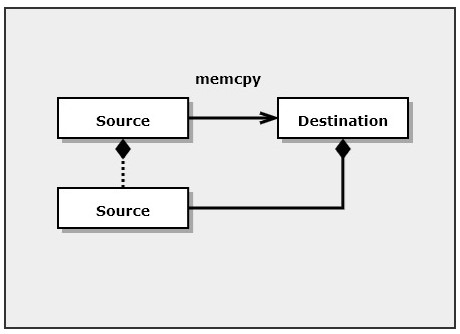
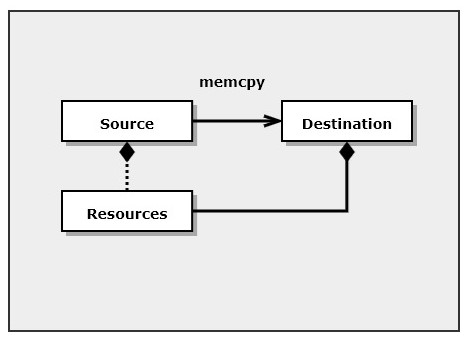
fixed typo

Changed region(s): [[0.1217, 0.2695, 0.913, 0.7186], [0.0, 0.0, 1.0, 0.988], [0.4261, 0.2096, 0.5783, 0.2695]]

diff --git a/Resources/FlashCards/FlashCard.html b/Resources/FlashCards/FlashCard.html
@@ -149,6 +149,7 @@
               Construction and assignment implicitly moves resources of source to destination.
               <ul class="tight">
                 <li>non-contiguous memory, does not implement Copy trait</li>
+                <li>move transfers ownership of resources from source to destination</li>
                 <li>
                   examples:<br />
                   Vec&lt;T&gt;, String, aggregate types holding at least one move type, mut refs,
